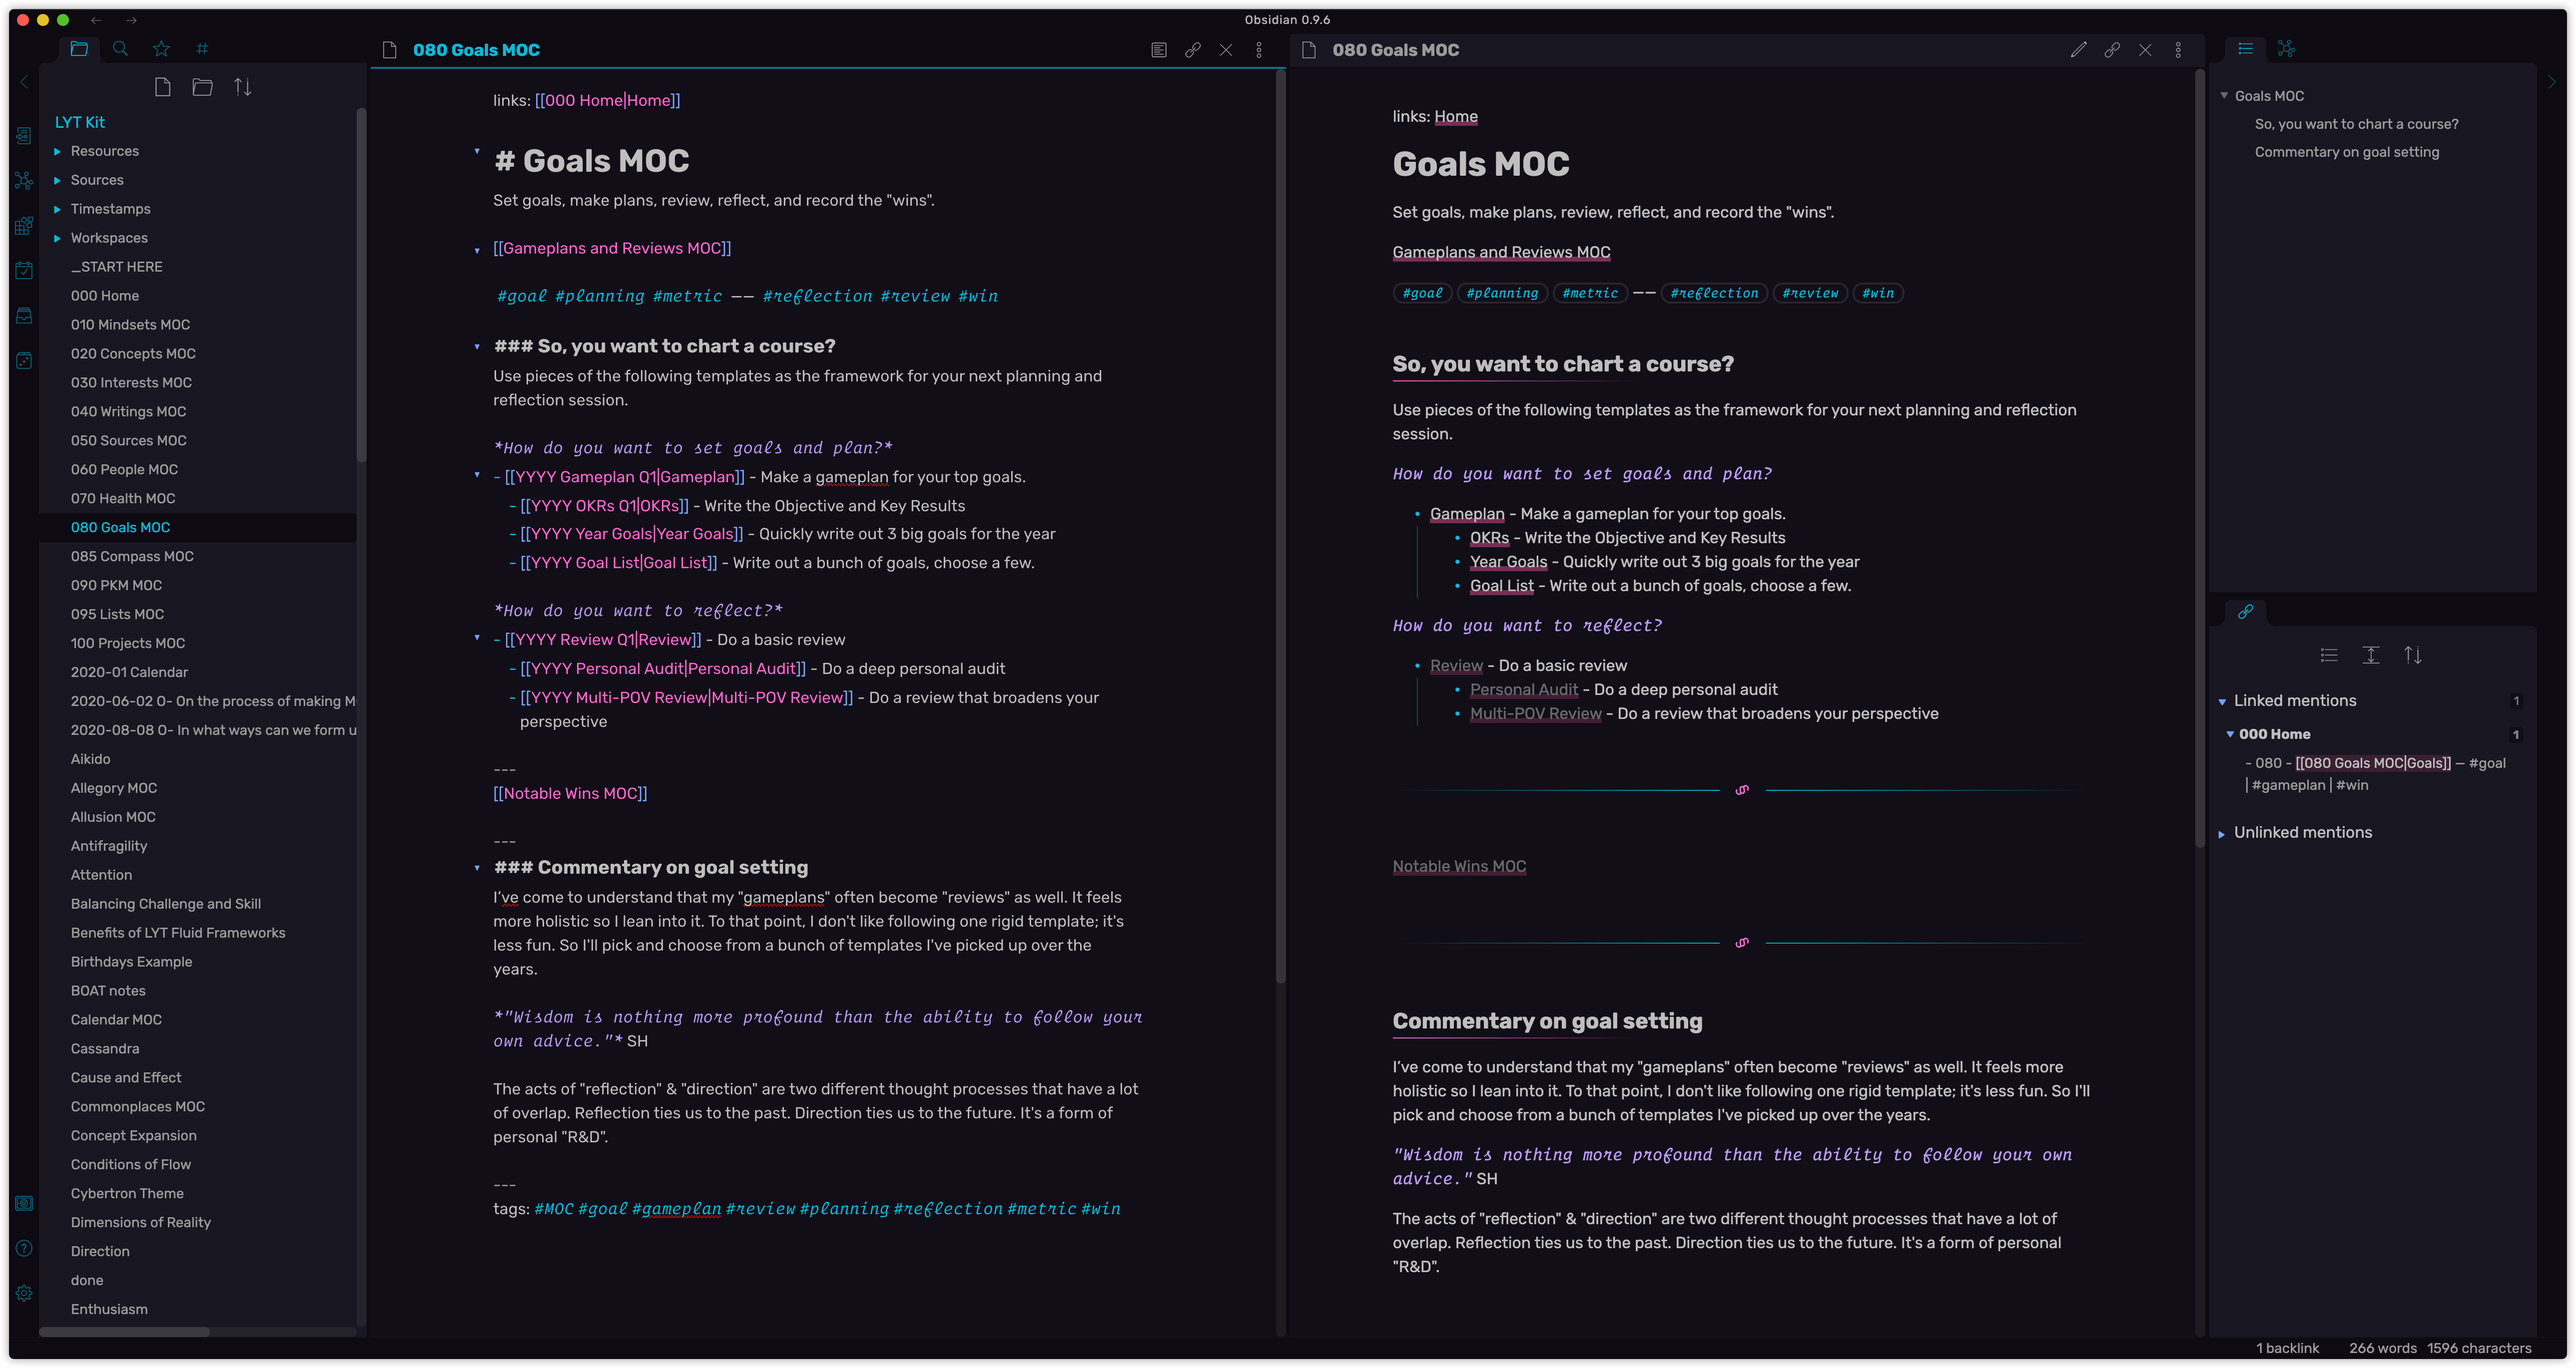
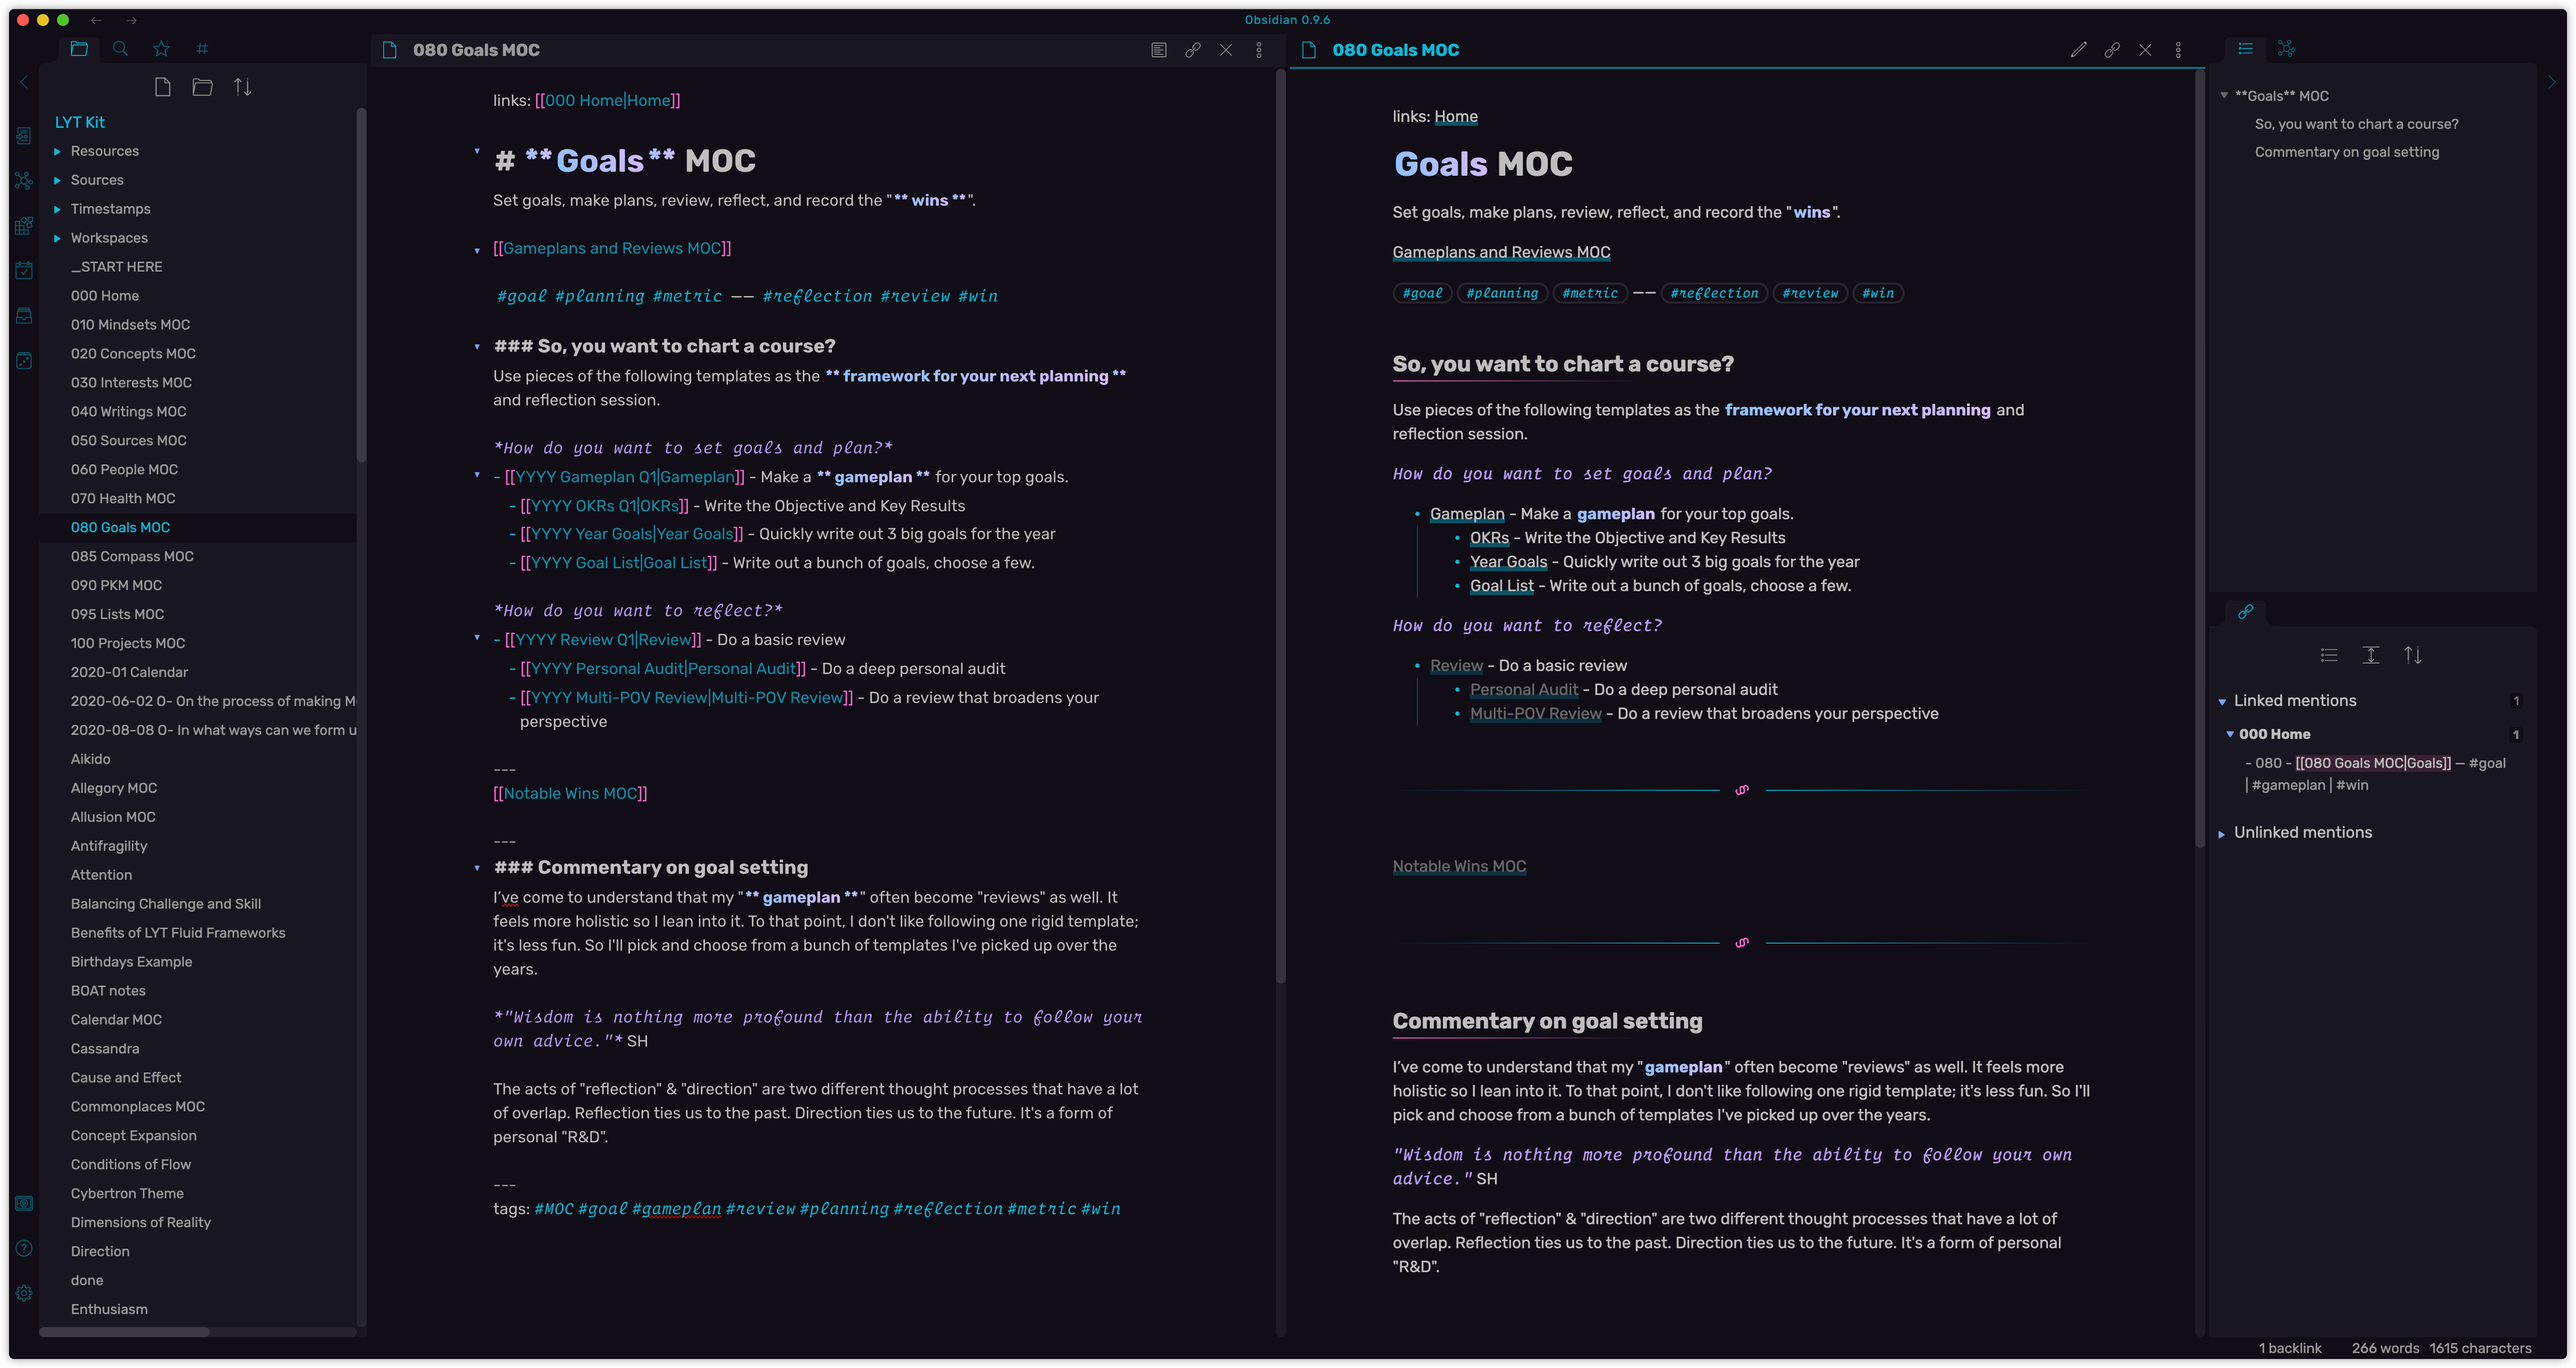
Updated to version 1.0.2 - style tweaks

diff --git a/obsidian.css b/obsidian.css
@@ -5,7 +5,7 @@
 ** ██║   ██║██╔══██╗╚════██║██║██║  ██║██║██╔══██║██║╚██╗██║██║   ██║   ██╔══╝
 ** ╚██████╔╝██████╔╝███████║██║██████╔╝██║██║  ██║██║ ╚████║██║   ██║   ███████╗
 **  ╚═════╝ ╚═════╝ ╚══════╝╚═╝╚═════╝ ╚═╝╚═╝  ╚═╝╚═╝  ╚═══╝╚═╝   ╚═╝   ╚══════╝
-**
+**  —— Version 1.0.2
 **  —— Made with 💎 by TriDiamond
 ** --------------------------------------------------------------- */
 
@@ -72,14 +72,15 @@
   --interactive-accent-rgb: #3dd7fb;
   --font-family-editor: 'Rubik';
   --font-family-preview: 'Rubik';
-  --bg-accent-35: rgba(244, 86, 157, 0.45);
-  --bg-accent-15: rgba(244, 86, 157, 0.15);
+  --bg-sub-accent-35: rgba(14, 210, 247, 0.35);
+  --bg-accent-35: rgba(122, 162, 247, 0.9);
   --text-highlight-bg: rgba(244, 86, 157, 0.15);
   --background-modifier-border: rgba(14, 210, 247, 0.05);
+  --test-color: rgb(122, 162, 247);
 }
 
 /***************************************/
-/*    EDITOR THEME STYLES              */
+/*    EDITOR GENERAL STYLES            */
 /***************************************/
 
 :root {
@@ -179,6 +180,10 @@ body:not(.is-grabbing) .nav-folder-title:hover .nav-folder-collapse-indicator {
   border-color: #101014;
 }
 
+.titlebar-text {
+  color: var(--text-accent);
+}
+
 .theme-dark .notice {
   background-color: var(--background-primary-alt);
   color: var(--text-accent);
@@ -193,13 +198,27 @@ h6 {
   font-weight: 600;
 }
 
+.view-header-icon {
+  color: var(--text-accent);
+}
+
 /***************************************/
 /*    EDITOR THEME STYLES              */
 /***************************************/
 
 .cm-strong,
 strong {
-  color: #81a3f1;
+  -webkit-background-clip: text;
+  -webkit-text-fill-color: transparent;
+  padding: 0 0.1rem;
+  color: #7aa2f7;
+  background-color: #7aa2f7;
+  background-image: linear-gradient(62deg, #87c2fd 0%, #dcb9fc 100%) !important;
+}
+
+.cm-strong::selection,
+strong::selection {
+  -webkit-text-fill-color: var(--text-faint);
 }
 
 .cm-em,
@@ -214,7 +233,8 @@ em {
 
 .cm-s-obsidian span.cm-link,
 .cm-s-obsidian span.cm-hmd-internal-link {
-  color: var(--text-sub-accent);
+  color: var(--text-accent);
+  opacity: 0.75;
 }
 
 .cm-s-obsidian span.cm-hashtag {
@@ -247,7 +267,8 @@ em {
   background-color: var(--background-secondary-alt);
 }
 
-button.mod-cta {
+.cm-s-obsidian span.cm-formatting-link {
+  color: var(--text-sub-accent);
 }
 
 /***************************************/
@@ -300,7 +321,7 @@ a,
 a:hover,
 .internal-link:hover {
   text-decoration: none !important;
-  color: var(--text-sub-accent);
+  color: var(--text-accent);
 }
 
 .internal-link:hover,
@@ -315,7 +336,8 @@ a:not(.internal-link) {
 
 .internal-link,
 .external-link {
-  background: linear-gradient(to bottom, var(--bg-accent-35) 0%, var(--bg-accent-35) 100%);
+  -webkit-text-fill-color: var(--text-normal);
+  background: linear-gradient(to bottom, var(--bg-sub-accent-35) 0%, var(--bg-sub-accent-35) 100%);
   background-position: 0 100%;
   background-repeat: repeat-x;
   background-size: 5px 5px;

diff --git a/README.md b/README.md
@@ -13,7 +13,7 @@ Obsidian.md custom theme, it's dark and simple but yet still stays sparkles!
     <img src="https://img.shields.io/github/license/TriDiamond/Obsidian-Obsidianite">
   </p>
 
-**[CHANGES](https://github.com/TriDiamond/Obsidian-Obsidianite/blob/master/CHANGELOG.md)**
+**[CHANGES](https://github.com/TriDiamond/Obsidian-Obsidianite/blob/main/CHANGELOG)**
 
 </div>
 
@@ -27,7 +27,7 @@ Obsidian.md custom theme, it's dark and simple but yet still stays sparkles!
 **  ╚═════╝ ╚═════╝ ╚══════╝╚═╝╚═════╝ ╚═╝╚═╝  ╚═╝╚═╝  ╚═══╝╚═╝   ╚═╝   ╚══════╝
 **
 **  —— Made with 💎 by TriDiamond
-**  version 1.0.0
+**  version 1.0.2
 ** --------------------------------------------------------------- */
 ```
 
